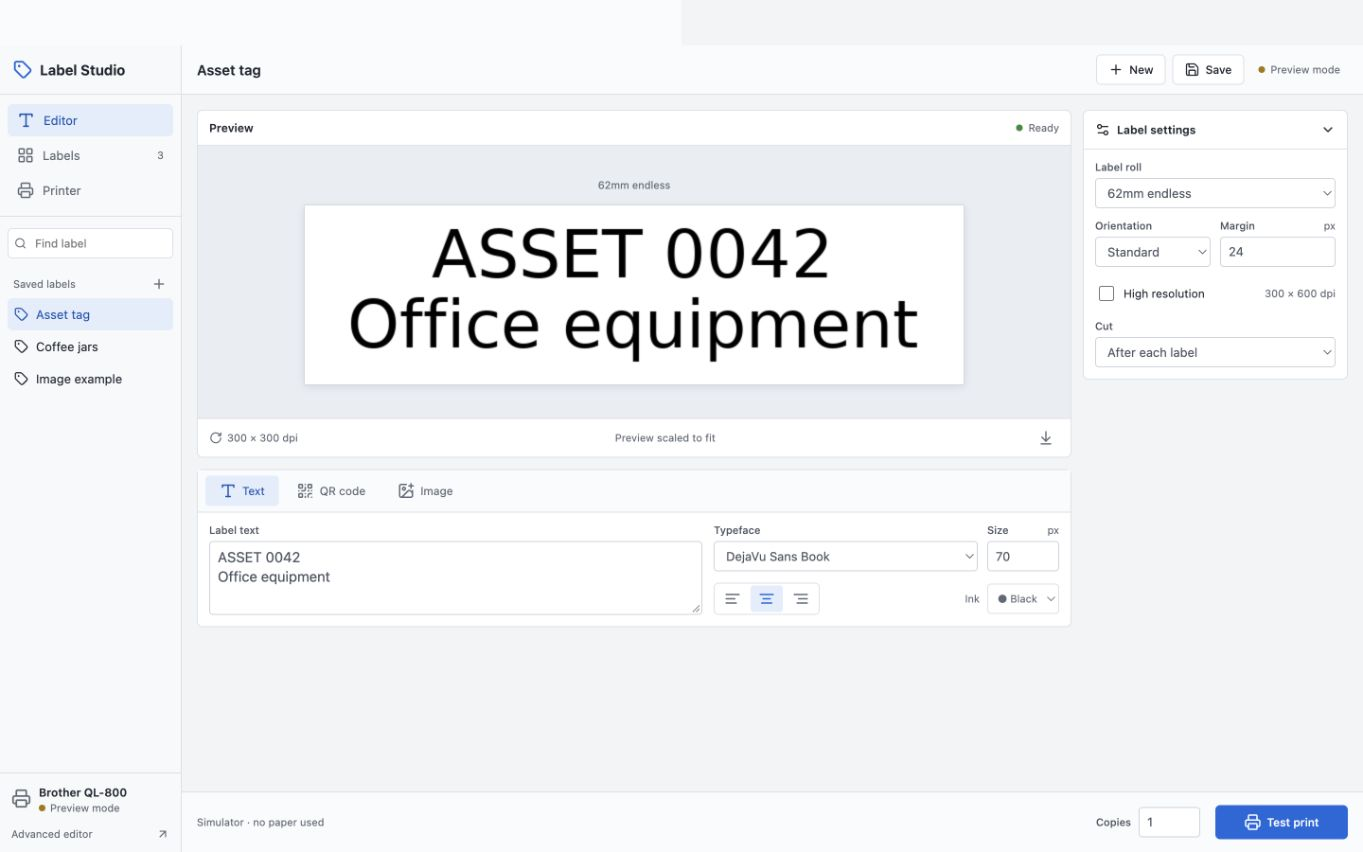
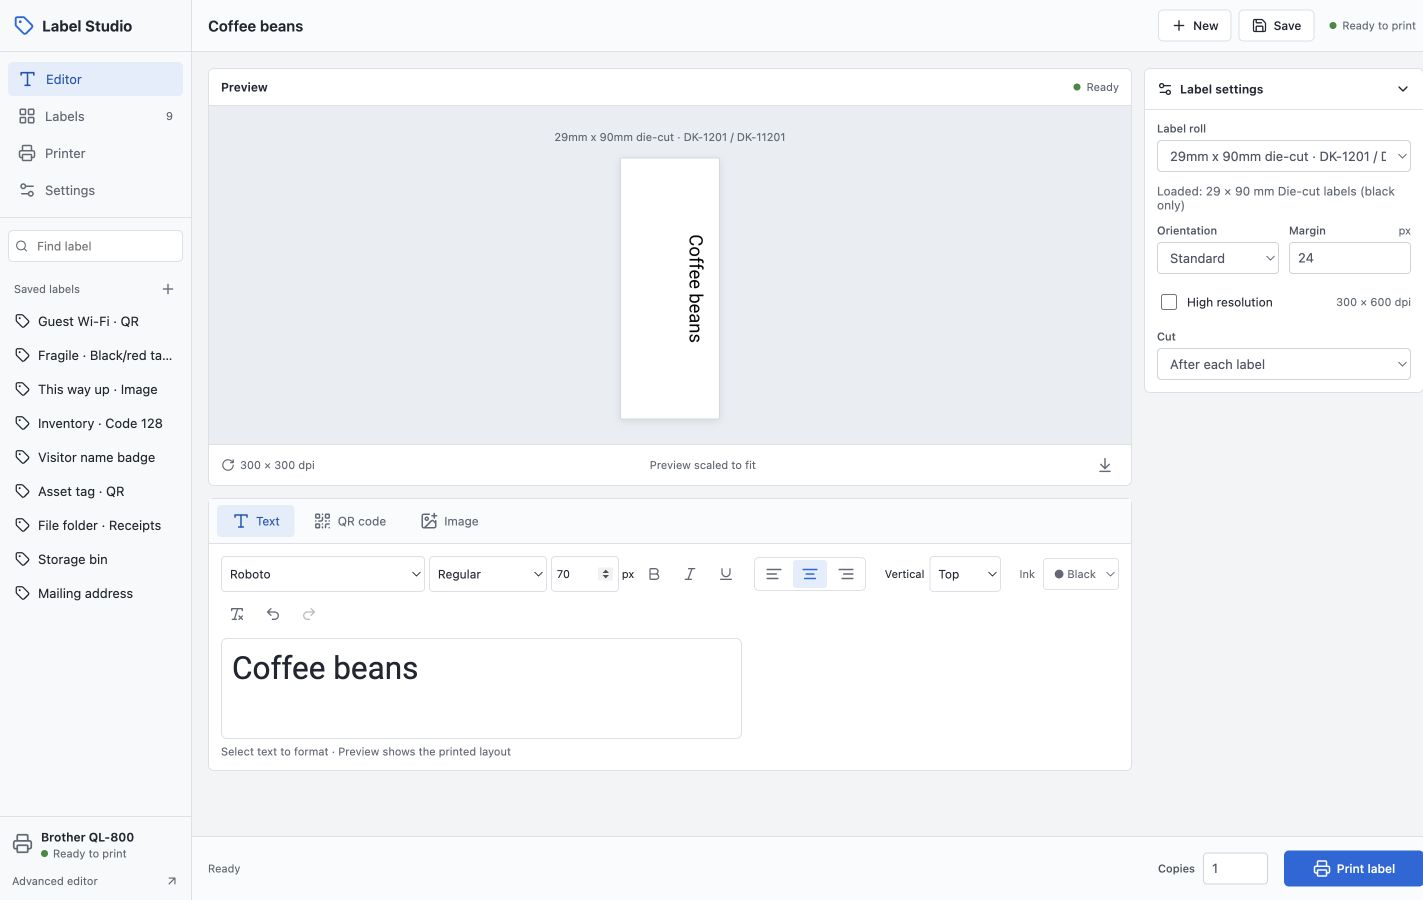
Prepare first public release and fix clean frontend installation

diff --git a/STUDIO.md b/STUDIO.md
@@ -1,21 +1,27 @@
-# Label Studio
+# Install and run Label Studio
 
-This development branch adds a React and TypeScript interface to DL6ER's Brother QL Web. The original Python renderer and raster driver remain responsible for output. Flask serves the compiled frontend, so the Raspberry Pi does not need a Node process. The new interface uses custom CSS and Lucide icons. The advanced editor still uses upstream Bootstrap 5 and jQuery.
+Label Studio is a React/TypeScript interface served by Flask and Waitress. Python renders the preview and sends Brother raster commands. Node is only needed when building from Git; it is not a running service on the printer host.
 
-The local branch is `modern-interface`, based on upstream commit `6c88c0489eb47324371425eb0bb55be04425aed7`. The GitHub fork retains upstream history and uses `modern-interface` as its development branch. The recovered Pi application is preserved separately in the workspace.
+## Quick start: simulator
 
-## Run locally
-
-From this directory, install the Python requirements into an isolated environment and build the frontend:
+Use Python 3.11 or newer. On Debian/Raspberry Pi OS, install the system dependencies:
 
 ```sh
-uv venv --python 3.11 .venv
-uv pip install --python .venv/bin/python -r requirements.txt
-npm ci --prefix frontend
-npm run build --prefix frontend
+sudo apt update
+sudo apt install python3-venv python3-dev build-essential fonts-dejavu-core libusb-1.0-0 poppler-utils
 ```
 
-Create `instance/application.py` for a local simulator:
+Download and extract `label-studio-v0.1.0.tar.gz` from the [release page](https://github.com/mfwarren/brother_ql_web/releases). This archive includes the built frontend. GitHub's automatic source archives require the frontend build below.
+
+From the extracted directory:
+
+```sh
+python3 -m venv .venv
+.venv/bin/python -m pip install -r requirements-server.txt
+mkdir -p instance
+```
+
+Create `instance/application.py`:
 
 ```python
 PRINTER_MODEL = 'QL-800'
@@ -24,109 +30,73 @@ SERVER_HOST = '127.0.0.1'
 SERVER_PORT = 8014
 ```
 
-Use installed fonts, or set `FONT_FOLDER` to a directory containing TTF or OTF files. In this workspace, `.local-fonts/` contains a copy of the Pi's DejaVu fonts and the existing local configuration points to it. These files and machine-specific configuration are ignored by Git.
-
 Start the server:
 
 ```sh
-.venv/bin/python run.py
+.venv/bin/python serve.py
 ```
 
-Open [Label Studio](http://127.0.0.1:8014/studio/). **Test print** generates a raster job and saves PNG output under `simulated_labels/`. It does not send paper through a physical printer. The classic editor remains at `/labeldesigner/`.
+Open <http://127.0.0.1:8014/studio/>. **Test print** creates a raster job and PNG under `simulated_labels/`; it uses no paper. The classic editor is at `/labeldesigner/`.
 
-For frontend development, start Flask first, then run `npm run dev --prefix frontend`. Vite proxies `/studio/api` to the local Flask server on port 8014. Rebuild before using Flask's compiled frontend again.
+## Build from Git
 
-## Current capabilities
-
-- Text labels with multiline text, font selection, alignment, ink color, margins, and orientation.
-- QR content with a separate caption.
-- PNG, JPEG, and first-page PDF labels with fit-to-label and image treatment controls.
-- Named labels with save, edit, duplicate, delete, and one-copy reprint actions.
-- Server-rendered PNG previews with a 300 ms debounce and stale-response cancellation.
-- A printer page that distinguishes simulator, ready, busy, offline, and error states.
-- Server-side limits for request size, image bytes, copies, fonts, label size, and print options.
-- Cross-process USB access locking, plus loaded width and length checks before physical printing.
-
-Modern saved documents use version 1 JSON in `instance/studio-labels/`, configurable with `STUDIO_LABELS_DIR`. Saves use atomic replacement. They are separate from upstream `labels/` because this initial editor does not expose every upstream per-line style, barcode, or template option. The advanced editor retains those features and its original library. No silent conversion discards those options.
-
-## Printer power
-
-An experimental [Linux-only QL-800 utility](docs/linux-power-settings.md) now reads and changes Auto Power Off. On the test printer it changed 60 minutes to disabled and verified the read-back. Idle-period behavior and persistence after a power cycle remain unverified.
-
-Brother documents disabling **Auto Power Off (AC/DC)** by setting it to **None** in the Printer Setting Tool while the QL-800 is connected by USB to a Mac or Windows computer. [Brother's instructions](https://support.brother.com/g/b/faqend.aspx?c=us_ot&faqid=faqp00001613_001&lang=en&prod=lpql800eus).
-
-The Pi successfully queried the powered-on QL-800. It reported 62 mm continuous tape, waiting to receive, and no errors. That query did not read or change the auto-off setting, identify black/red media, or print a label. The app does not claim to wake a powered-off USB printer.
-
-## Verify
+Use Node 24 and npm 11.19.0 (the CI toolchain):
 
 ```sh
-uv pip install --python .venv/bin/python -r requirements-dev.txt
-.venv/bin/python -m pytest tests/test_studio.py tests/test_studio_qr.py tests/test_printer_settings.py tests/test_studio_samples.py -q
+git clone --branch modern-interface https://github.com/mfwarren/brother_ql_web.git
+cd brother_ql_web
+npx --yes npm@11.19.0 ci --prefix frontend
 npm run build --prefix frontend
-git diff --check
 ```
 
-The Studio suite passes 25 tests and uses the real Python renderer and raster simulator. QR regression tests decode rendered images to verify the exact payload, including Unicode and Wi-Fi data. It covers text, QR, images, multiline rendering, high resolution, persistence, rejection of invalid input, offline printing, lock contention, roll mismatch, first-page PDF conversion, and bounded printer status reads through a pseudo-terminal. A browser pass verified editing, saved-image restoration, simulated printing, and the phone layout at 390 pixels wide.
+Then follow the Python setup above. For frontend development, run the Python server on port 8014 and `npm run dev --prefix frontend`; Vite proxies API calls to that server.
 
-The upstream repository suite has pre-existing failures on this Mac because some fixture fonts are absent and rendered PNG bytes differ from its reference environment. The Studio suite does not depend on those platform-specific byte snapshots.
+## Connect a printer
 
-## Raspberry Pi deployment
+For a Linux USB QL-800 exposed through `usblp`, change the configuration:
 
-The native application is deployed on the Raspberry Pi 3 running 32-bit Raspberry Pi OS 12. Waitress serves the compiled frontend and Python API on port 80 at `http://labels.local/`. The physical QL-800 reports ready with 62 mm continuous media. A real HTTP preview succeeded on the Pi, and 37 renderer/storage/USB tests passed there. The three QR decoder tests run on the development machine and CI, where the optional decoder is installed. All 40 local tests pass.
+```python
+PRINTER_MODEL = 'QL-800'
+PRINTER_PRINTER = 'file:///dev/usb/lp0'
+SERVER_HOST = '0.0.0.0'
+```
 
-The service runs as `matt` with supplementary `lp` access and the capability to bind port 80. Saved labels and configuration live outside the release directory. The original installation at `/opt/brother_ql_web` is preserved and its service is disabled. See [deployment paths and rollback commands](deploy/README.md).
+Restart the server. The service account needs access to the USB device (commonly the `lp` group). Check the Printer page before printing. See [Raspberry Pi deployment](deploy/README.md) for a port-80 systemd service.
 
-The full production dependency set installed successfully on armv7l. Container builds remain unverified; this deployment uses a native virtual environment. Physical print quality, red media, and high-resolution output still require user validation. Power-off configuration read-back succeeded, but no controlled idle/power-cycle persistence test has been completed.
+This is a shared-printer app without user accounts. Run it on a trusted local network; do not expose its printing and settings endpoints directly to the internet. Publishing this repository does not publish your printer or saved labels.
 
-## Compact interface
+## Editing and storage
 
-The interface follows the [mockup](docs/design/app-mockup.png) with a desktop saved-label sidebar, a label inspector, and persistent print controls. Tablets use a narrow navigation rail and touch controls. Phones put the preview first and keep Editor, Labels, and Printer navigation at the bottom. Font sizes in mobile inputs avoid automatic iOS zoom; safe-area insets accommodate home indicators.
+- Select words to change font family, style, pixel size, or underline. Fixed-size text labels offer Top, Center, and Bottom alignment.
+- Preview updates keep the existing image visible until the replacement is ready. The server preview is the printed layout; the text editor is an editing surface.
+- Save, duplicate, and reprint labels with their paper settings. New libraries include nine samples, including a black/red Fragile label.
+- Settings controls defaults and local font installation. Google Fonts are downloaded from the official repository with their licenses. Original variable fonts render directly; weights and italics need no slow conversion. TTF/OTF uploads are supported.
+- New labels can follow detected media. Saved labels retain their roll settings, and mismatches are checked again before printing.
 
-Save with Command/Control+S and print with Command/Control+Enter. These shortcuts are disabled while a dialog is open. Browser checks cover 1440×900, 834×1112, and 390×844 viewports. These are responsive browser checks, not tests on physical iOS hardware.
+Modern labels use versioned JSON in `instance/studio-labels/`, or `STUDIO_LABELS_DIR`. Settings and installed fonts live beside that directory, or under `STUDIO_DATA_DIR`. Back up the complete data directory, including hidden files. The classic editor retains its separate library; no automatic conversion discards its template or barcode options.
 
-## Starter labels
-
-A new modern library receives three editable samples on its first visit: Storage bin, Asset tag · QR, and This way up · Image. They use installed fonts and standard 62 mm black tape. The QR contains `ASSET-0042`; scanning it displays that identifier. The image is original monochrome artwork included in the project.
-
-Samples are added once, under a filesystem lock, with fixed IDs and an initialization marker. Deleting them does not recreate them; saved edits are preserved. Libraries that already contain user labels are left alone. Set `STUDIO_SEED_SAMPLES = False` to disable initialization. Include hidden files when backing up the library so the initialization marker is retained.
-
-To explicitly add samples to an existing library without overwriting its labels, run this from the app directory using the service account and its configuration:
+Samples are seeded once; deleted samples stay deleted. Set `STUDIO_SEED_SAMPLES = False` to disable seeding. To add missing samples to an existing library, preserving existing sample IDs and edits:
 
 ```sh
 .venv/bin/python -c 'from app import create_app; from app.studio import seed_starter_labels; app = create_app(); ctx = app.app_context(); ctx.push(); seed_starter_labels(add_to_existing=True)'
 ```
 
-Explicit addition restores missing sample IDs but preserves existing samples, including edits.
+## Compatibility and limits
 
-### Shared defaults and fonts
+The primary tested setup is a QL-800 attached by USB to a Raspberry Pi 3 running 32-bit Raspberry Pi OS 12. Physical printing and roll swaps were exercised with 62 mm black-only, 62 mm black/red, and 29 × 90 mm die-cut stock. Other models are inherited from the driver and need community testing. Container deployment is not verified for this release.
 
-Open **Settings** to set the default typeface, text size, orientation, roll, and margin.
-The settings apply to new labels; existing saved documents retain their formatting.
-New-label actions fetch the current settings so other devices pick up changes too.
-The printer reports roll width and die-cut length. On the QL-800, black-only and
-black/red detection was verified using physical roll swaps. New labels follow a
-uniquely detected roll by default, with a five-second status refresh. Turn off
-**Follow loaded roll for new labels** to use a fixed default. Saved labels and
-manual choices retain their own settings; mismatched stock is rejected before
-printing. See [USB status evidence](docs/usb-status.md).
+The [Linux Auto Power Off utility](docs/linux-power-settings.md) changed a real QL-800 from 60 minutes to disabled and verified the read-back. Long idle periods and persistence after a power cycle remain unverified. The app cannot wake a physically powered-off printer.
 
-Settings live in `settings.json` and downloaded/uploaded fonts in `fonts/`, next to
-`STUDIO_LABELS_DIR`, or under `STUDIO_DATA_DIR` if set. With the included Pi deployment,
-these are `/var/lib/label-studio/settings.json` and `/var/lib/label-studio/fonts`.
-Back up the entire data directory to preserve settings, fonts, licenses, and labels.
-The legacy editor keeps its own configuration defaults.
+Hardware density adjustment is not implemented. See [QL-800 notes](docs/ql800.md), [media detection](docs/usb-status.md), [roll catalog](docs/label-roll-catalog.md), and [font/rendering details](docs/rich-text-and-fonts.md).
 
-The bundled Google Fonts catalog lists 2,046 families at its recorded repository
-revision. Installing a family downloads one upright regular face when available,
-plus its license, directly from the official `google/fonts` repository. Variable
-fonts are instantiated at normal weight for predictable rendering. Nothing is
-fetched from Google by the browser. Font files remain local for offline printing.
-Uploads accept TTF/OTF files up to 8 MiB and validate them with fontTools and Pillow.
-Administrators can regenerate the catalog with `python tools/update_font_catalog.py`.
-No Google API key is required. On macOS, Python needs a working CA certificate store;
-`SSL_CERT_FILE=/etc/ssl/cert.pem` can be used with Apple's system certificates.
+## Verification
 
-Brother documents black/red density adjustments from -6 to +6 in its Printer
-Setting Tool, but does not describe a density command in the QL-800 raster reference.
-This app does not send guessed hardware-density commands. See
-[Brother's density instructions](https://support.brother.ca/app/answers/detail/a_id/159086/kw/guide).
+```sh
+.venv/bin/python -m pip install -r requirements-dev.txt
+.venv/bin/python -m pytest tests/test_studio.py tests/test_studio_qr.py tests/test_printer_settings.py tests/test_studio_samples.py tests/test_studio_preferences.py tests/test_usb_transport.py tests/test_rich_text.py -q
+node --experimental-strip-types frontend/title-checks.mjs
+node --experimental-strip-types frontend/rich-text-checks.mjs
+npm run build --prefix frontend
+```
+
+Tests cover rendering, QR decoding, persistence, font weights, formatting, alignment, stock checks, and USB transport. Browser checks cover desktop, tablet, and phone viewports; these are not physical iOS-device tests. Legacy PNG snapshot tests remain a separate manual workflow because their original routes and exact artwork differ from Studio.

diff --git a/deploy/README.md b/deploy/README.md
@@ -1,46 +1,42 @@
 # Raspberry Pi deployment
 
-This installation uses prebuilt React assets and a native Python virtual environment on Raspberry Pi OS 12, armv7l. Node is only needed on the build machine. Install `requirements-server.txt` and use `serve.py` for the Waitress production server.
+The tested host is a Raspberry Pi 3 running 32-bit Raspberry Pi OS 12. Follow [STUDIO.md](../STUDIO.md) to install system dependencies, extract the release archive, create a virtual environment, and test the simulator first. Use `requirements-server.txt` and `serve.py` for Waitress. Node is only required on a frontend build machine.
 
-The provided service template uses the local `matt` user, supplementary `lp` group, and only the capability needed to bind port 80. Adjust the user for another machine. Configuration is kept in `/etc/label-studio/application.py`, symlinked from the release's `instance/application.py`.
+## Production layout
 
-## Installed layout
+A suggested layout separates program files from persistent data:
 
+- `/opt/label-studio/releases/<version>`: extracted release and its `.venv`.
 - `/opt/label-studio/current`: symlink to the active release.
-- `/opt/label-studio/releases/20260929-8d15bb4`: initial deployed release, based on commit 8d15bb4 plus deployment changes. `DEPLOYED_COMMIT` records the final source commit.
-- `/var/lib/label-studio/labels`: modern saved labels.
-- `/var/lib/label-studio/classic-labels`: classic saved labels.
-- `/var/lib/label-studio/printer.lock`: shared physical-printer lock.
-- `/etc/systemd/system/label-studio.service`: production service.
-- `/opt/brother_ql_web`: preserved original installation.
+- `/etc/label-studio/application.py`: host configuration.
+- `/var/lib/label-studio/labels`: modern label library.
+- `/var/lib/label-studio/classic-labels`: classic library.
+- `/var/lib/label-studio/fonts` and `settings.json`: installed fonts and defaults.
+- `/var/lib/label-studio/printer.lock`: shared printer lock.
 
-The listener is port 80 and the physical printer is `file:///dev/usb/lp0`. The webhook remains disabled. During preparation, the candidate server runs only on loopback port 8020 in simulation mode.
+Create these directories with ownership appropriate to your service account. Copy [application.py.example](application.py.example) to `/etc/label-studio/application.py`, then review the printer model, USB device, and data paths. Create `instance/` inside the release and symlink `instance/application.py` to that configuration file. Set `STUDIO_DATA_DIR = '/var/lib/label-studio'` if using a different label-directory layout.
 
-## Operations
+## Port 80 service
+
+Copy [label-studio.service](label-studio.service) to `/etc/systemd/system/label-studio.service`. **Change `User=matt` and `Group=matt` to your service account**, and adjust paths if needed. The account needs read access to the release and configuration, write access to `/var/lib/label-studio`, and access to the printer device. The template grants supplementary `lp` membership and the capability to bind port 80 without running the application as root.
 
 ```sh
+sudo systemctl daemon-reload
+sudo systemctl enable --now label-studio
 sudo systemctl status label-studio
+```
+
+Open `http://<pi-hostname>.local/studio/`, or use its IP address. `.local` discovery requires working mDNS on your network. If another web server already occupies port 80, choose another port or configure that server as a proxy.
+
+## Operations and upgrades
+
+```sh
 sudo journalctl -u label-studio -n 50 --no-pager
 sudo systemctl restart label-studio
 ```
 
-Back up `/var/lib/label-studio` and `/etc/label-studio` before upgrades. Build and validate a new release separately, then switch the `current` symlink and restart. Avoid printing during a release switch.
+Back up `/var/lib/label-studio` and `/etc/label-studio` before upgrades, including hidden sample-initialization files. Extract a new release into a new directory, create its virtual environment and configuration symlink, and validate it in simulation before switching `current` and restarting. Avoid printing during the switch. Keep the previous release so you can restore its symlink and restart if needed.
 
-## Roll back to the original app
+When migrating from an older Brother QL Web installation, retain its files, service definition, and label library until the new service is verified. Stop the old listener before starting the new port-80 service. The classic and Studio libraries are separate; see [migration tradeoffs](../docs/migration.md).
 
-```sh
-sudo systemctl disable --now label-studio.service
-sudo systemctl enable --now brother_ql_web.service
-```
-
-This restores the original port-80 app. It does not delete modern labels or change the printer's Auto Power Off setting. To switch back:
-
-```sh
-sudo systemctl disable --now brother_ql_web.service
-sudo systemctl enable --now label-studio.service
-```
-
-UI preferences and installed fonts persist alongside the label library in
-`/var/lib/label-studio/settings.json` and `/var/lib/label-studio/fonts/`. Include
-both in backups. No extra deployment configuration is needed. Set `STUDIO_DATA_DIR`
-only when these should live somewhere other than the parent of `STUDIO_LABELS_DIR`.
+The app has no user accounts and is intended for a trusted local network. Do not forward its port to the public internet. The webhook endpoint is disabled unless explicitly configured.

diff --git a/README.md b/README.md
@@ -2,7 +2,19 @@
 
 A compact React interface for a shared Brother label printer. Desktop toolbar and saved-label sidebar, a touch layout for tablets, and a phone editor with a fixed print bar. Flask serves the built interface and handles rendering and printing; no Node server runs on the printer host.
 
-**Development preview.** A native deployment on a 32-bit Raspberry Pi 3 is running with the QL-800 detected and ready. Renderer, storage, and USB tests pass on the Pi; physical print quality and optional hardware modes still need user validation. [Deployment and rollback](deploy/README.md).
+[![Label Studio checks](https://github.com/mfwarren/brother_ql_web/actions/workflows/studio.yml/badge.svg?branch=modern-interface)](https://github.com/mfwarren/brother_ql_web/actions/workflows/studio.yml)
+
+**First public release: v0.1.0.** Built for a printer shared around a home or small workspace, with no user accounts. Tested on a Raspberry Pi 3 with a USB Brother QL-800. Other supported printer models welcome community testing.
+
+[Download the release](https://github.com/mfwarren/brother_ql_web/releases/latest) · [Install and run](STUDIO.md) · [Report a bug or suggest a feature](https://github.com/mfwarren/brother_ql_web/issues)
+
+- Mix fonts, weights, sizes, italics, and underlines within a label.
+- Save labels with their paper settings and reprint them quickly.
+- Detect loaded QL-800 media and warn before printing onto the wrong stock.
+- Install Google Fonts locally, with native variable-font rendering.
+- Use the same compact editor on desktop, tablet, or phone.
+
+The release archive includes the built interface, so the Pi only runs Python.
 
 ![Label Studio desktop](docs/design/desktop.png)
 
@@ -14,7 +26,7 @@ The experimental [QL-800 settings utility](docs/linux-power-settings.md) can rea
 
 ## Ready-to-print samples
 
-First installs include nine examples: storage bin, asset QR tag, handling arrows, mailing address, file folder, visitor badge, inventory barcode, guest Wi-Fi QR, and a red Fragile label. Eight use standard 62 mm tape; Fragile is saved for 62 mm black/red tape. The QR encodes the sample identifier `ASSET-0042`. Open one from Labels, edit if needed, and print. The mailing address and Wi-Fi credentials are placeholders. The inventory barcode is a fixed image encoding `SKU-0042`; editing its caption does not change the barcode. Use the advanced editor to generate a different linear barcode. Samples are created once; deleted samples stay deleted and existing libraries are preserved.
+First installs include nine examples: storage bin, asset QR tag, handling arrows, mailing address, file folder, visitor badge, inventory barcode, guest Wi-Fi QR, and a red Fragile label. Eight use standard 62 mm tape; Fragile is saved for 62 mm black/red tape. The asset QR encodes the sample identifier `ASSET-0042`. Open one from Labels, edit if needed, and print. The mailing address and Wi-Fi credentials are placeholders. The inventory barcode is a fixed image encoding `SKU-0042`; editing its caption does not change the barcode. Use the advanced editor to generate a different linear barcode. Samples are created once; deleted samples stay deleted and existing libraries are preserved.
 
 | Text | QR | Image |
 | --- | --- | --- |
@@ -44,7 +56,7 @@ with 55 regional product codes mapped to 21 supported driver profiles.
 | Area | Label Studio | Classic editor, still included |
 | --- | --- | --- |
 | Interface | React, TypeScript, custom CSS; desktop, tablet, phone layouts | Bootstrap 5 and jQuery |
-| Labels | Multiline text, QR with caption, images and first PDF page | Per-line formatting, barcodes, templates, symbol picker |
+| Labels | Rich text with per-selection fonts/styles, vertical alignment, QR with caption, images and first PDF page | Per-line formatting, barcodes, templates, symbol picker |
 | Saved labels | Separate versioned JSON library, duplicate and quick print | Existing upstream library remains available |
 | Printer | Status checks, bounded USB reads, shared printer lock, roll-size checks | Uses the same lock for physical access |
 | Deployment | Build static assets, serve with Python | Available at `/labeldesigner/` |

diff --git a/CONTRIBUTING.md b/CONTRIBUTING.md
@@ -1,0 +1,9 @@
+# Contributing
+
+Start with the simulator in [STUDIO.md](STUDIO.md). Open issues and pull requests against this fork's `modern-interface` branch.
+
+For printer bugs, include the printer model, operating system, connection/backend, roll code and dimensions, steps to reproduce, and the error/status shown. Include a small sample label if possible, with private text, QR payloads, and Wi-Fi credentials removed. Mention whether the problem occurs in the modern editor, classic editor, or both.
+
+Run the verification commands in STUDIO.md before submitting a change. Keep hardware-specific behavior scoped to the models on which it is documented or tested, and distinguish real printer checks from simulation. For interface changes, include desktop and phone screenshots.
+
+Preserve upstream attribution and the GPL-3.0 license. Contributions are distributed under the repository's license.
